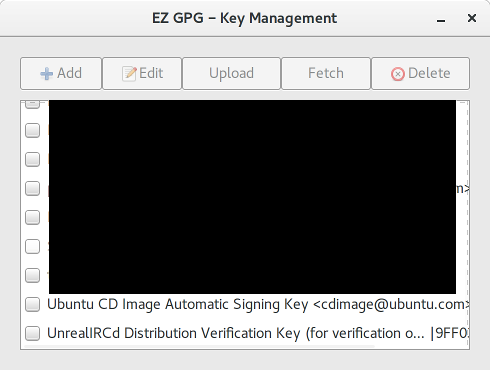
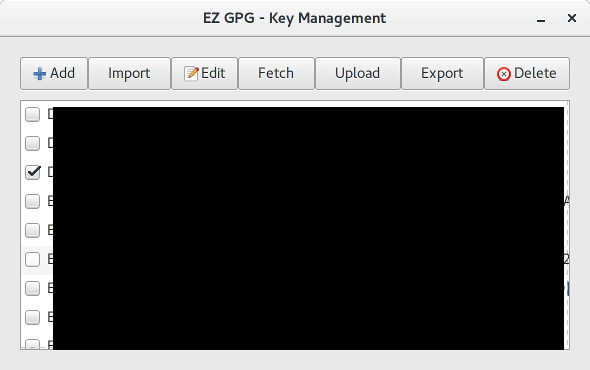
Updated readme and key mgmt screenshot
Thins have changed enough that we need to update these.

diff --git a/README.md b/README.md
@@ -18,8 +18,20 @@ Personal take on what a GPG UI should look like
 ### In progress:
 ![Key Manag3ement Window](/screenshots/key_management.png?raw=true "Key Management Window")
 
+## Working
+- Basic multi-file encryption
+- Basic decryption
+ - Can detect if you have the needed decryption key
+ - Checks if your password is correct for selected key
+- Basic signing
+- Basic signature verification (detached signature)
+- Key import (armoured)
+- Key deletion (armoured)
+- Python packaging
+- fpm packaging
+
 ## Still missing:
-- Multi-file handling
+- Multi-file handling (sign, verify, decrypt)
 - Symetric encryption
 - Encryption/signing options
 - DnD
